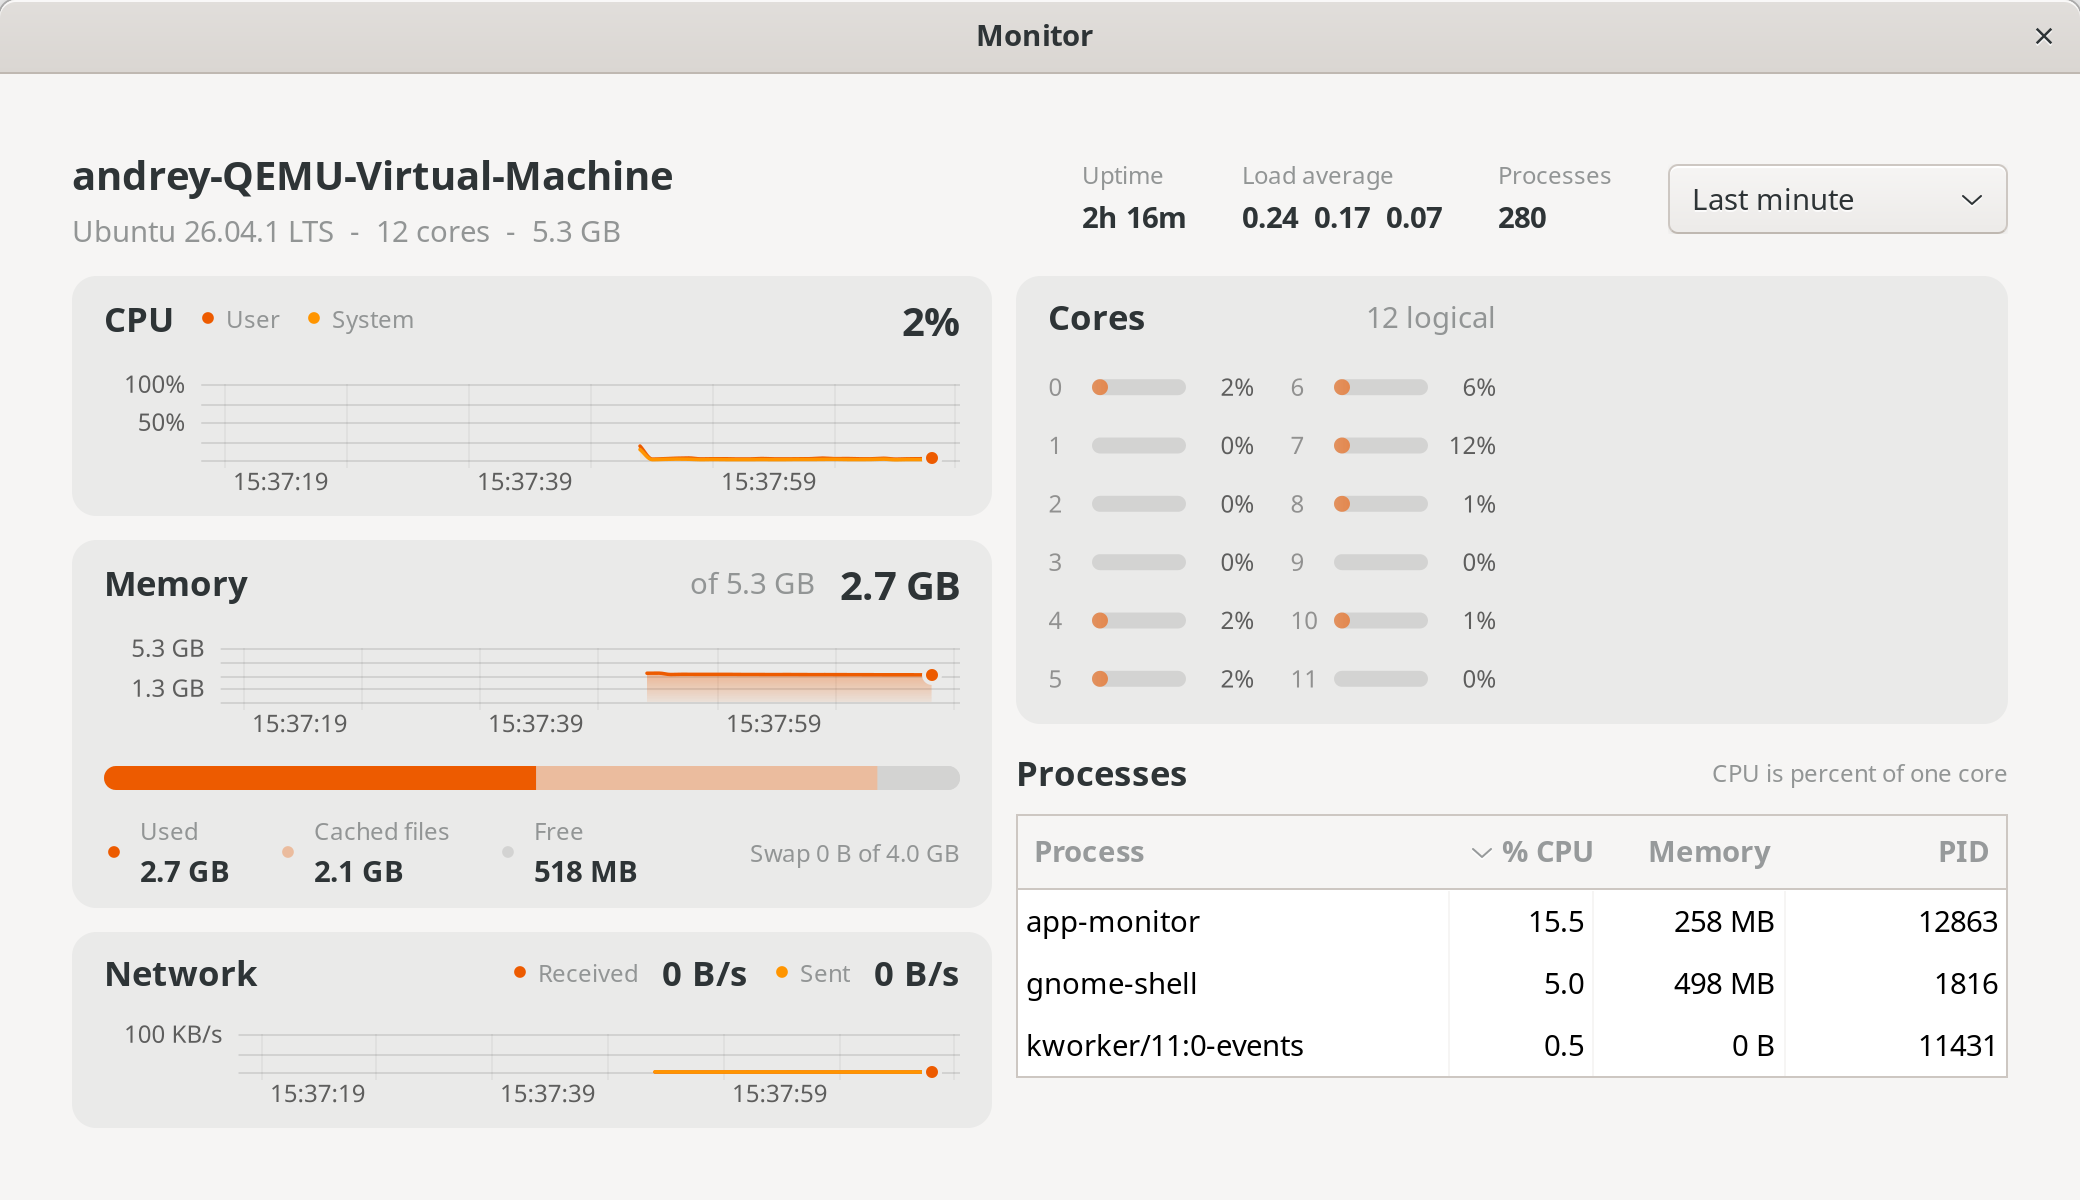
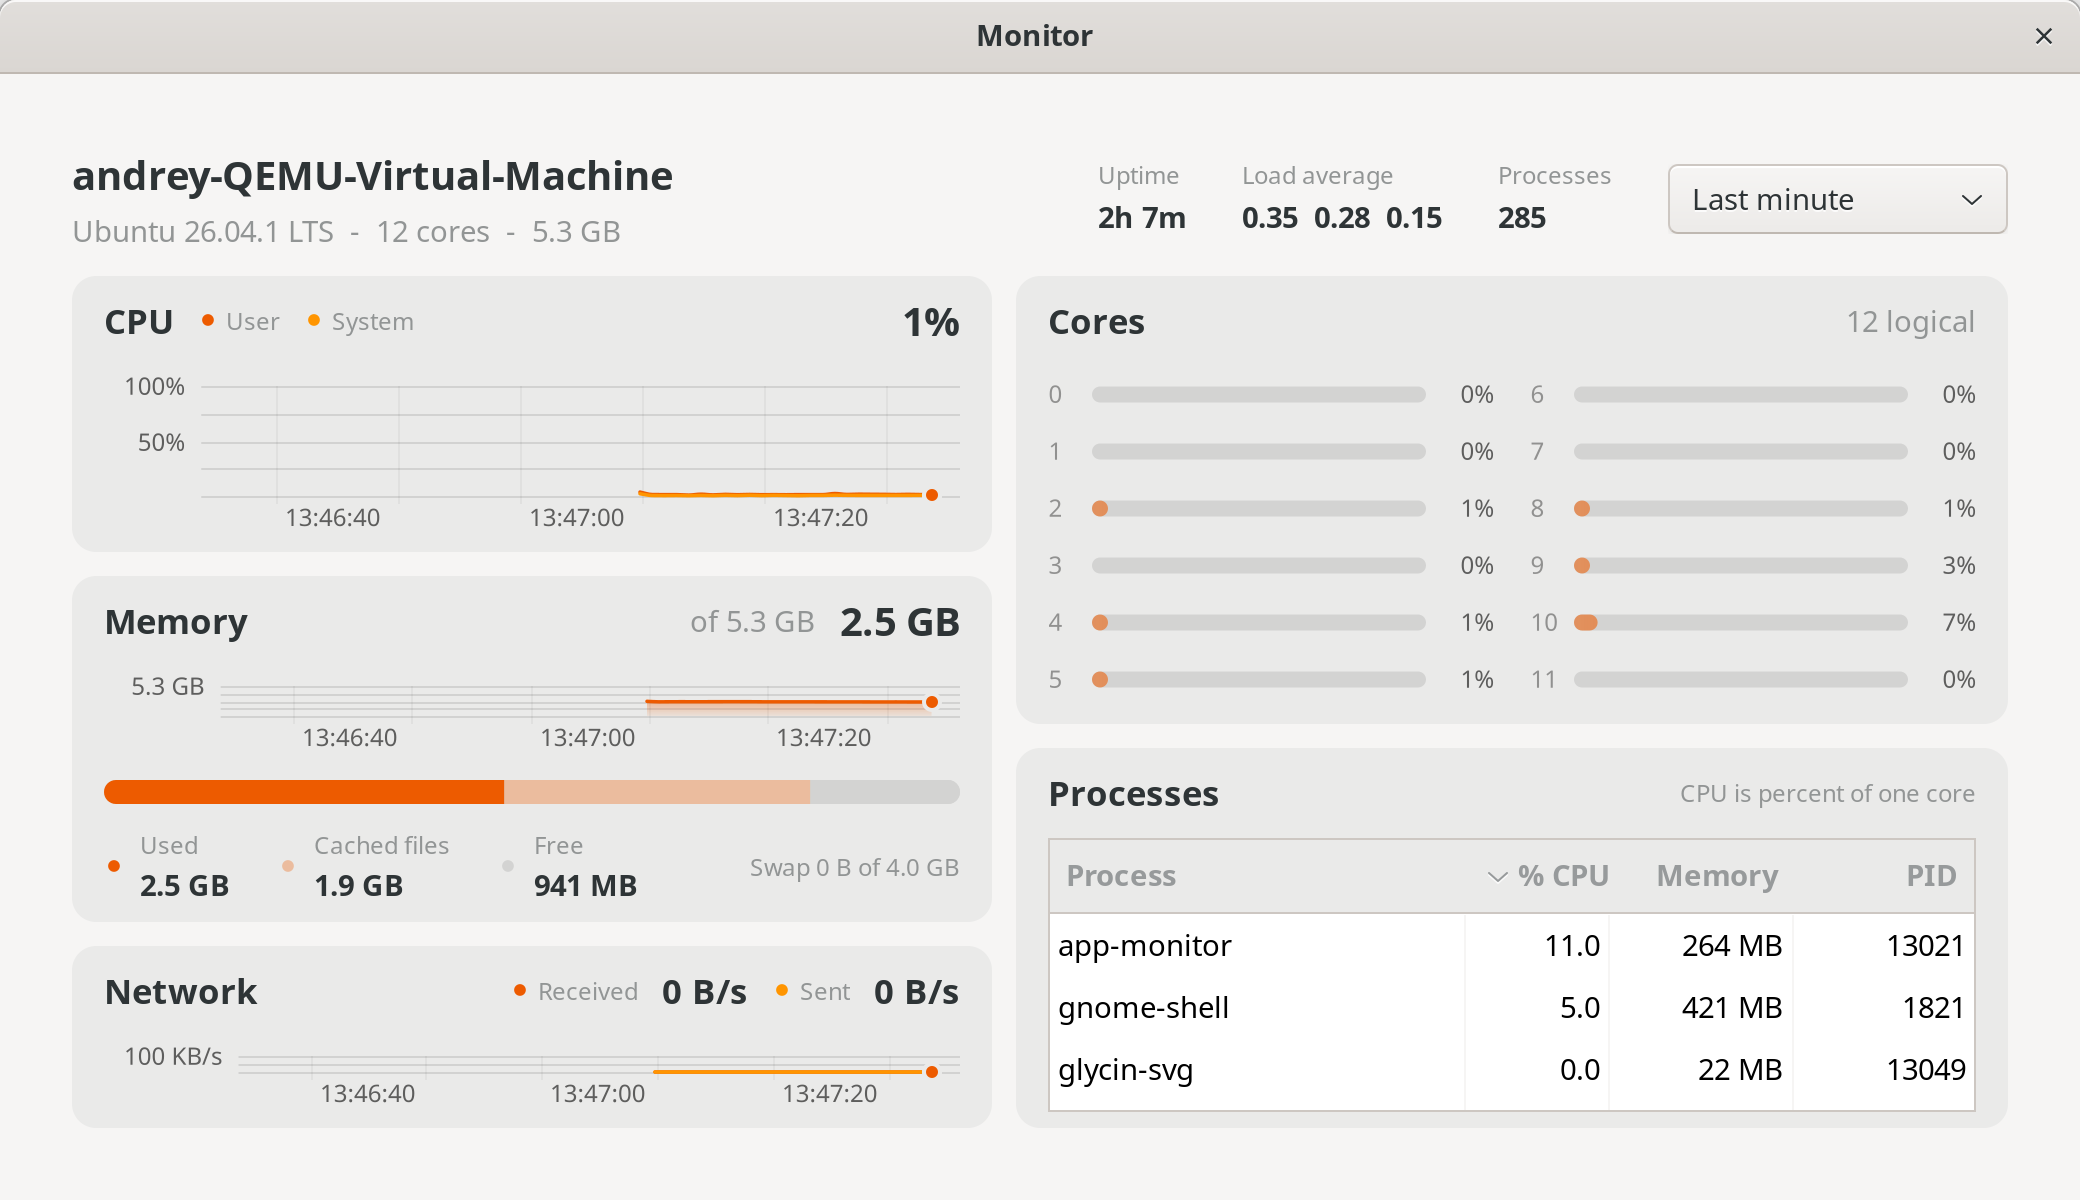
monitor: rebalanced layout for the README hero, GOWT_DEMO hides its own process
- CPU, Memory and Network all grow; chart minimums 76/40/32 pt make CPU the tallest chart
  and keep the 1040x600 shot from clipping the Network card on Windows and Linux.
- The right column grows in height, so the Processes table fills its panel; Processes is a
  card like the others, with columns narrowed to fit its inset without a horizontal scrollbar.
- The Cores grid fills the card width (its VBox did not grow, so the bars sat in the left half).
- Every card title row is as tall as a Title value, so side-by-side titles share a line.
- GOWT_DEMO=1 leaves the app's own process out of the table (the screen recorder's load);
  the Linux GUI test checks it.
- docs/img/app-monitor-{windows,linux}.png shot again on the VMs.

diff --git a/examples/apps/monitor/main.go b/examples/apps/monitor/main.go
@@ -7,6 +7,7 @@ import (
 	"cmp"
 	"fmt"
 	"log"
+	"math"
 	"os"
 	"runtime"
 	"sort"
@@ -77,6 +78,10 @@ type monitor struct {
 // snapping is true under GOWT_SNAP, a screenshot run. The charts need about 25 s of samples to show curves,
 // so the capture waits for them unless the caller set a longer delay.
 var snapping = os.Getenv("GOWT_SNAP") != ""
+
+// demo is set under GOWT_DEMO=1, the README recording: the screen capture loads this process to over
+// 100% CPU, so the table leaves it out instead of heading the list with the recorder's cost.
+var demo = os.Getenv("GOWT_DEMO") == "1"
 
 func main() {
 	if snapping {
@@ -208,7 +213,7 @@ func (m *monitor) build() {
 		m.header(),
 		gowt.HBox(gowt.Grow(), gowt.Gap(gowt.Spacing.MD),
 			gowt.VBox(gowt.Grow(), gowt.Gap(gowt.Spacing.MD), m.cpuCard(), m.memCard(), m.netCard()),
-			gowt.VBox(gowt.Size(gowt.Scaled(440), 0), gowt.Gap(gowt.Spacing.MD), m.coresCard(), m.procCard()))))
+			gowt.VBox(gowt.Size(gowt.Scaled(440), 0), gowt.GrowY(), gowt.Gap(gowt.Spacing.MD), m.coresCard(), m.procCard()))))
 	w.Show()
 	m.refreshPalette()
 }
@@ -241,16 +246,19 @@ func (m *monitor) header() gowt.Option {
 	return gowt.HBox(append([]gowt.Option{gowt.GrowX(), gowt.Gap(gowt.Scaled(24))}, items...)...)
 }
 
+// head is a card's title row. Every row is as tall as a Title value, with or without one, so the
+// titles of cards side by side sit on one line.
 func head(title string, extra ...gowt.Option) gowt.Option {
-	return gowt.HBox(append([]gowt.Option{gowt.GrowX(), gowt.Gap(gowt.Spacing.MD),
-		gowt.Label(title, gowt.Typeface(gowt.Type.Subtitle))}, extra...)...)
+	h := int(math.Ceil(gowt.Type.Title.Px * 1.4))
+	return gowt.HBox(append([]gowt.Option{gowt.GrowX(), gowt.Size(0, h), gowt.Gap(gowt.Spacing.MD),
+		gowt.Label(title, gowt.Typeface(gowt.Type.Subtitle), gowt.GrowY(), gowt.Place(gowt.AlignStart, gowt.AlignCenter))}, extra...)...)
 }
 
 func (m *monitor) cpuCard() gowt.Option {
-	return m.card(gowt.GrowX(), gowt.VBox(gowt.Grow(), gowt.Gap(gowt.Spacing.SM), gowt.Padding(gowt.Spacing.XS),
+	return m.card(gowt.Grow(), gowt.VBox(gowt.Grow(), gowt.Gap(gowt.Spacing.SM), gowt.Padding(gowt.Spacing.XS),
 		head("CPU", m.legend("User", func(p *palette) gfx.Color { return p.accent }), m.legend("System", func(p *palette) gfx.Color { return p.orange }),
 			gowt.Spacer(), lbl(&m.cpuValue, "-", gowt.Typeface(gowt.Type.Title))),
-		m.cpu.option(gowt.Scaled(300), gowt.Scaled(60))))
+		m.cpu.option(gowt.Scaled(300), gowt.Scaled(76))))
 }
 
 func (m *monitor) memCard() gowt.Option {
@@ -264,7 +272,7 @@ func (m *monitor) memCard() gowt.Option {
 	legend = append(legend, gowt.Spacer(), lbl(&m.swapNote, "", kit.Faint(), gowt.Typeface(gowt.Type.Caption)))
 	return m.card(gowt.Grow(), gowt.VBox(gowt.Grow(), gowt.Gap(gowt.Spacing.SM), gowt.Padding(gowt.Spacing.XS),
 		head("Memory", gowt.Spacer(), lbl(&m.memNote, "", kit.Faint()), lbl(&m.memValue, "-", gowt.Typeface(gowt.Type.Title))),
-		m.mem.option(gowt.Scaled(300), gowt.Scaled(48)),
+		m.mem.option(gowt.Scaled(300), gowt.Scaled(40)),
 		m.bar.strip(gowt.Scaled(16)),
 		gowt.HBox(append([]gowt.Option{gowt.GrowX(), gowt.Gap(gowt.Scaled(20))}, legend...)...)))
 }
@@ -274,11 +282,11 @@ func (m *monitor) netCard() gowt.Option {
 		head("Network", gowt.Spacer(),
 			m.legend("Received", func(p *palette) gfx.Color { return p.accent }), lbl(&m.rxValue, "-", gowt.Typeface(gowt.Type.Subtitle)),
 			m.legend("Sent", func(p *palette) gfx.Color { return p.orange }), lbl(&m.txValue, "-", gowt.Typeface(gowt.Type.Subtitle))),
-		m.net.option(gowt.Scaled(300), gowt.Scaled(44))))
+		m.net.option(gowt.Scaled(300), gowt.Scaled(32))))
 }
 
 func (m *monitor) coresCard() gowt.Option {
-	return m.card(gowt.GrowX(), gowt.VBox(gowt.Gap(gowt.Spacing.SM), gowt.Padding(gowt.Spacing.XS), gowt.Size(0, gowt.Scaled(190)),
+	return m.card(gowt.GrowX(), gowt.VBox(gowt.Grow(), gowt.Gap(gowt.Spacing.SM), gowt.Padding(gowt.Spacing.XS), gowt.Size(0, gowt.Scaled(190)),
 		head("Cores", gowt.Spacer(), lbl(&m.coresNote, "", kit.Faint())),
 		m.cores.option(gowt.Scaled(200), gowt.Scaled(110))))
 }
@@ -287,10 +295,10 @@ var columns = []struct {
 	title string
 	width int
 	right bool
-}{{"Process", 190, false}, {"% CPU", 64, true}, {"Memory", 84, true}, {"PID", 62, true}}
+}{{"Process", 184, false}, {"% CPU", 64, true}, {"Memory", 80, true}, {"PID", 56, true}}
 
 func (m *monitor) procCard() gowt.Option {
-	return gowt.VBox(gowt.Grow(), gowt.Gap(gowt.Spacing.SM),
+	return m.card(gowt.Grow(), gowt.VBox(gowt.Grow(), gowt.Gap(gowt.Spacing.SM), gowt.Padding(gowt.Spacing.XS),
 		head("Processes", gowt.Spacer(), gowt.Label("CPU is percent of one core", kit.Faint(), gowt.Typeface(gowt.Type.Caption))),
 		gowt.Table(gowt.Grow(), gowt.Size(0, gowt.Scaled(110)), gowt.Tooltip("100% is one core fully busy, as in Activity Monitor"), gowt.Init(func(t *gowt.TableView) {
 			m.table = t
@@ -304,7 +312,7 @@ func (m *monitor) procCard() gowt.Option {
 				m.cols = append(m.cols, col)
 			}
 			m.table.SetSort(m.cols[m.sortCol], gowt.SortDescending)
-		})))
+		}))))
 }
 
 // sortBy sorts by column i; a second click on the same column reverses it.
@@ -327,7 +335,13 @@ const maxRows = 40
 // fillTable shows the top processes in the sort order, rewriting rows in place so the selection and
 // the scroll position stay, and tracking the selected process by PID as the order changes.
 func (m *monitor) fillTable() {
-	ps := append([]sampler.Process(nil), m.procs...)
+	ps := make([]sampler.Process, 0, len(m.procs))
+	for _, p := range m.procs {
+		if demo && p.PID == os.Getpid() {
+			continue
+		}
+		ps = append(ps, p)
+	}
 	sort.Slice(ps, func(a, b int) bool {
 		x, y := ps[a], ps[b]
 		c := 0

diff --git a/examples/apps/monitor/gui_linux_test.go b/examples/apps/monitor/gui_linux_test.go
@@ -59,6 +59,9 @@ func TestCardsKeepTheirTitles(t *testing.T) {
 	}
 	var snapErr error // not t.Fatal: this runs on the UI thread, where Goexit would hang the test
 	var ink []int
+	rows := -1
+	demo = true // the table leaves out this process, the second one below
+	defer func() { demo = false }()
 	dir := t.TempDir()
 	var err error
 	onMain(func() {
@@ -72,7 +75,7 @@ func TestCardsKeepTheirTitles(t *testing.T) {
 					Time: t0.Add(time.Duration(i) * time.Second), CPU: 0.2 + f, User: 0.15 + f, System: 0.05,
 					Cores:  []float64{0.1, 0.2 + f, 0.3, 0.4},
 					Mem:    sampler.Memory{Total: 8 << 30, Used: 3 << 30, App: 3 << 30, Cached: 2 << 30, Free: 3 << 30, SwapTotal: 1 << 30},
-					RxRate: 1e5 * f, TxRate: 5e4, Uptime: time.Hour, Procs: []sampler.Process{{PID: 1, Name: "init", CPU: 1, RSS: 1 << 20}},
+					RxRate: 1e5 * f, TxRate: 5e4, Uptime: time.Hour, Procs: []sampler.Process{{PID: 1, Name: "init", CPU: 1, RSS: 1 << 20}, {PID: os.Getpid(), Name: "monitor", CPU: 120, RSS: 1 << 20}},
 				}
 			}
 			var step func(i int)
@@ -99,6 +102,7 @@ func TestCardsKeepTheirTitles(t *testing.T) {
 						at := func(v int32) int { return int(float64(v)*k + 0.5) }
 						ink = append(ink, inkIn(img, image.Rect(at(p.X+8), dy+at(p.Y+6), at(p.X+90), dy+at(p.Y+30))))
 					}
+					rows = m.table.Len()
 					m.win.Close()
 				})
 			}
@@ -110,6 +114,9 @@ func TestCardsKeepTheirTitles(t *testing.T) {
 	}
 	if snapErr != nil {
 		t.Fatal(snapErr)
+	}
+	if rows != 1 {
+		t.Errorf("under GOWT_DEMO the table has %d rows, want 1: its own process is not left out", rows)
 	}
 	for i, n := range ink {
 		if n < 30 {
